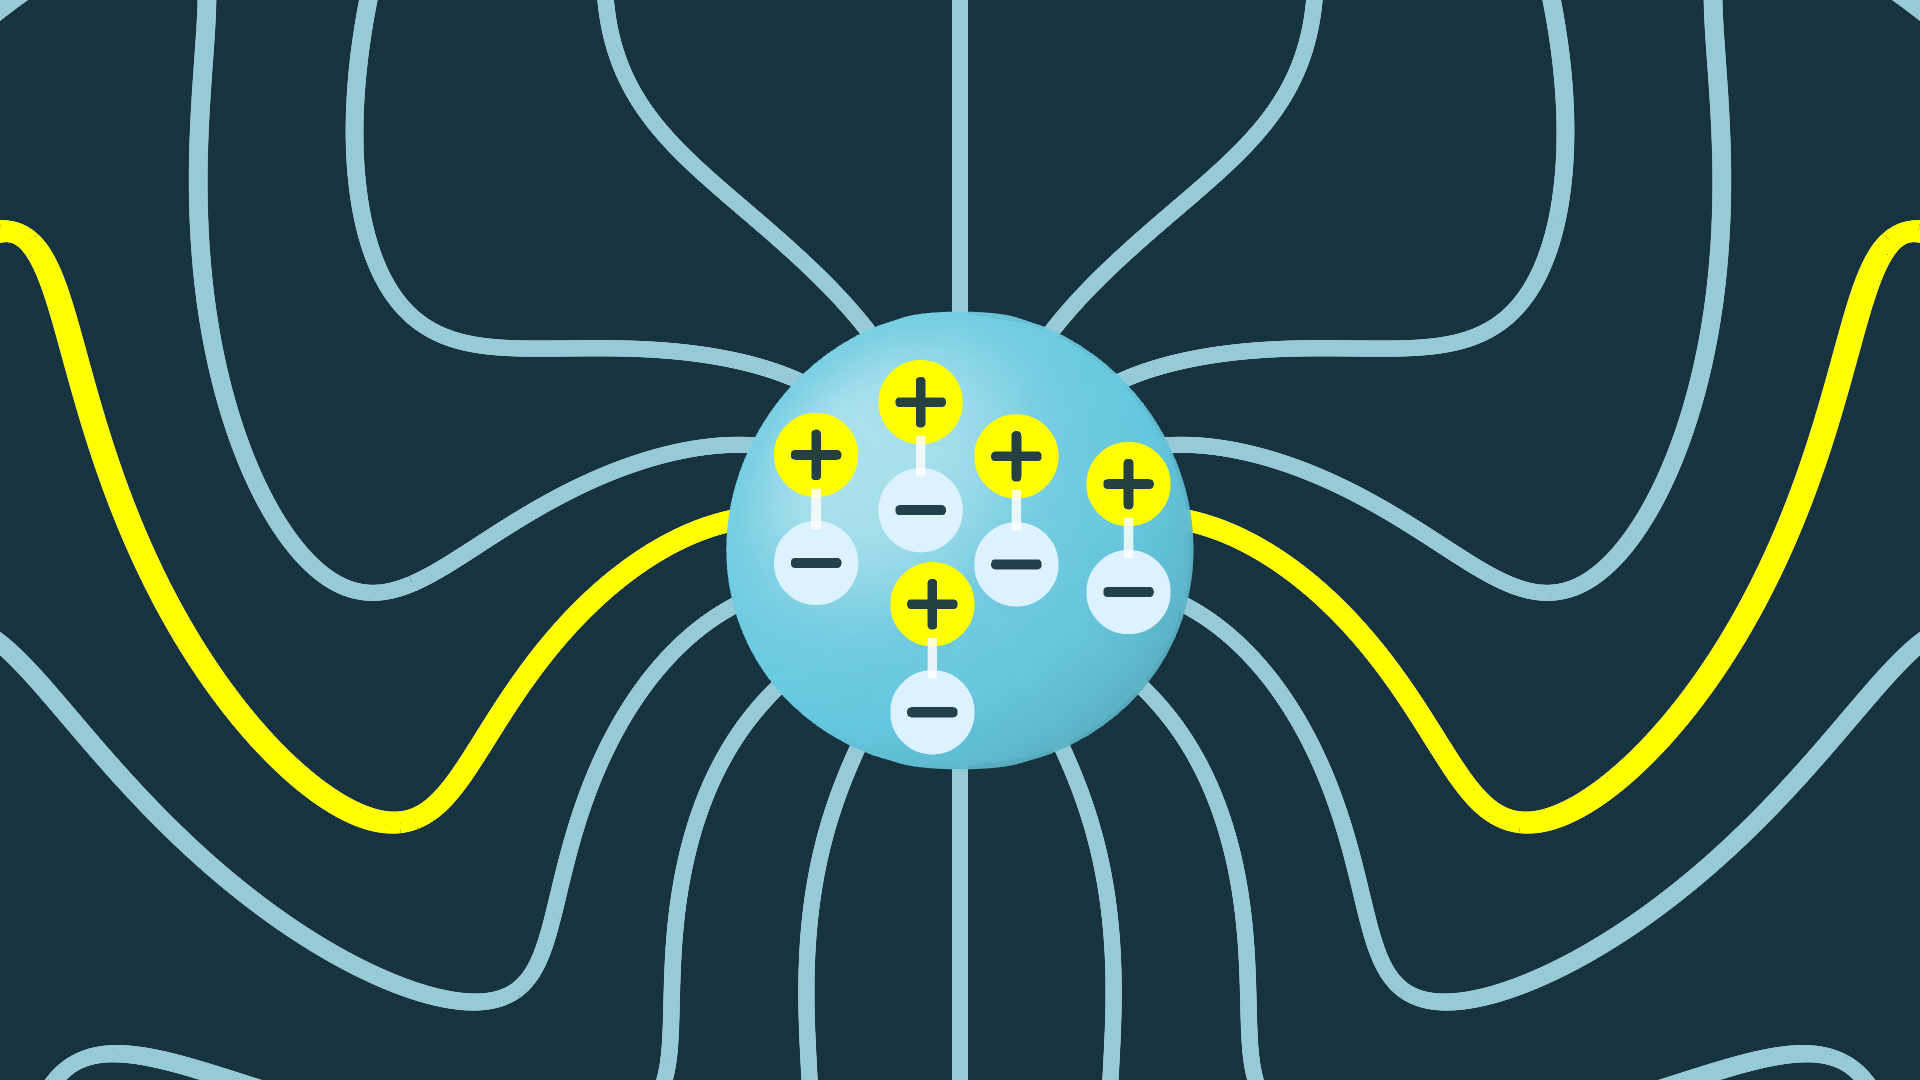
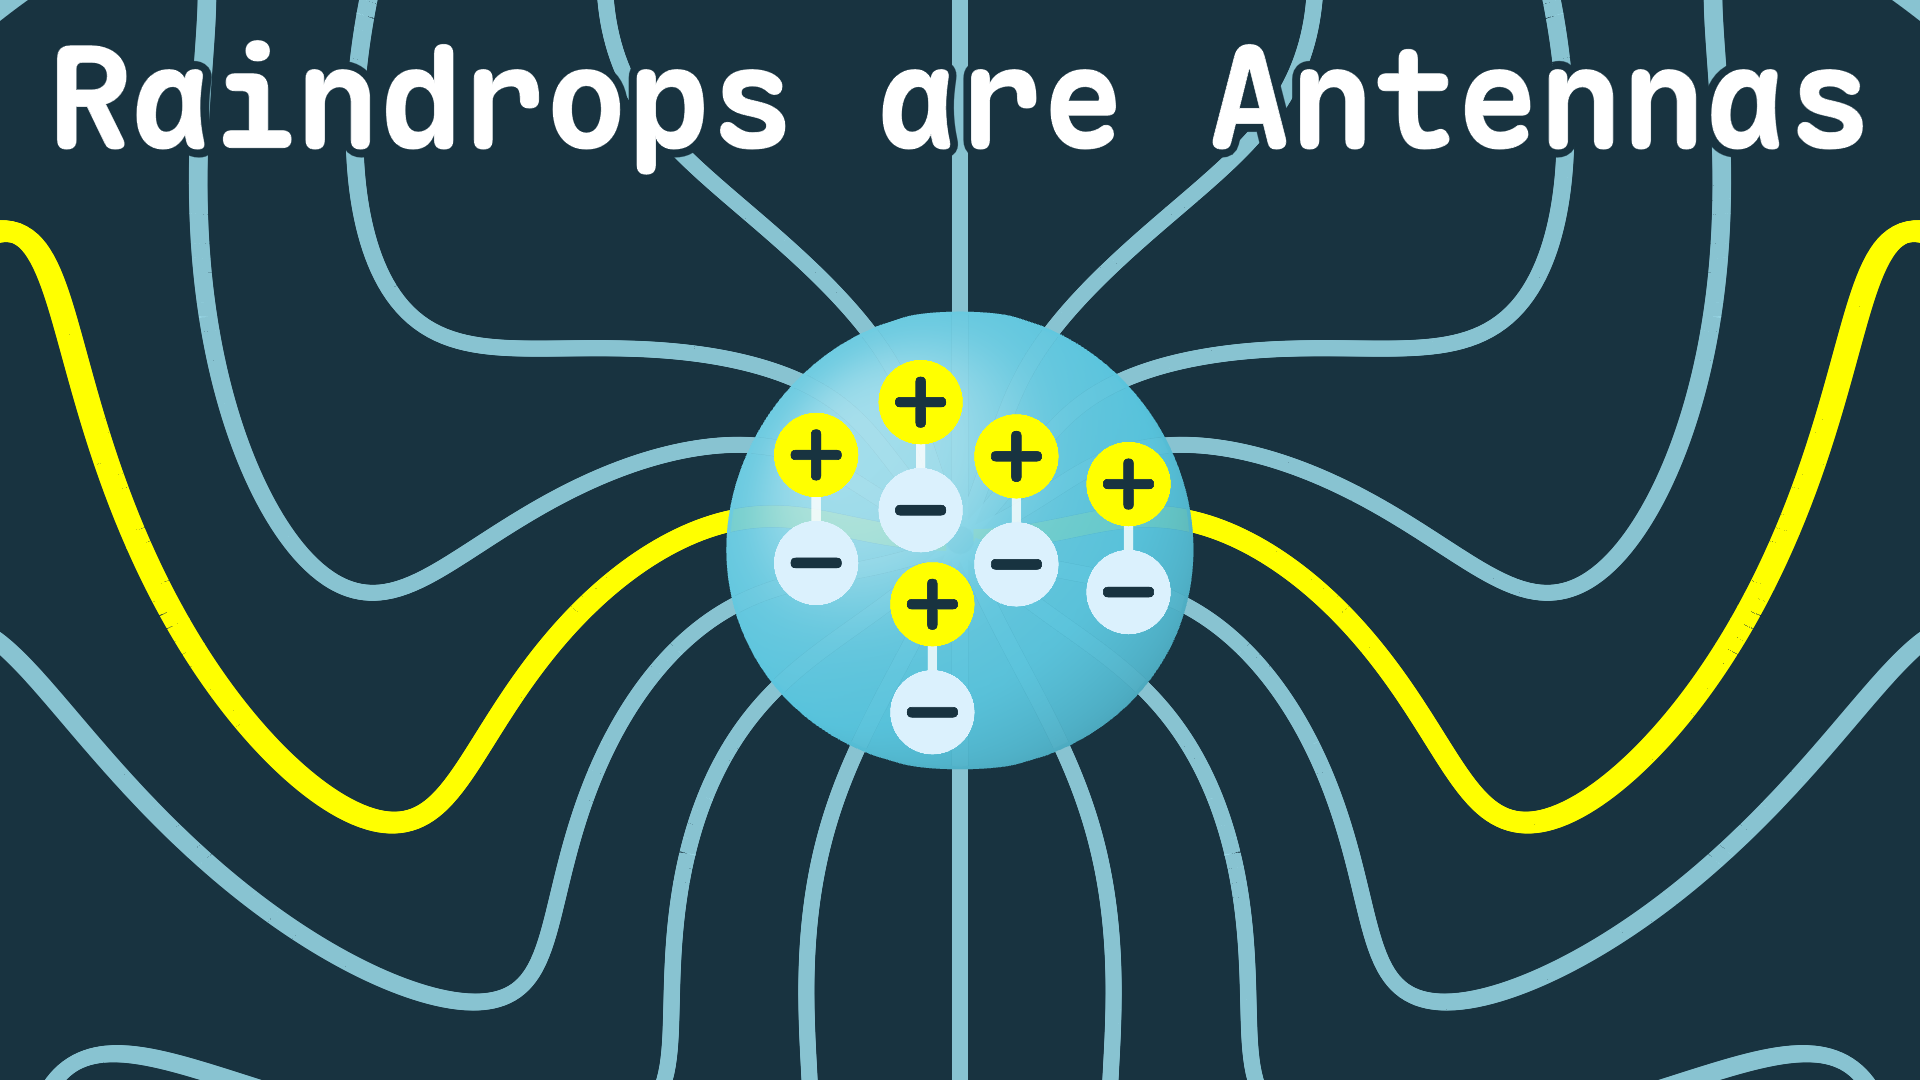
thickness

Changed region(s): [[0.0312, 0.0306, 0.4062, 0.1528], [0.625, 0.0306, 0.9688, 0.1528], [0.4375, 0.0611, 0.5938, 0.1528]]

diff --git a/18_reflectivity_physics/zphys.py b/18_reflectivity_physics/zphys.py
@@ -7426,7 +7426,14 @@ class Thumbnail2(ThreeDScene):
             )
             charge_pairs.add(pair)
 
-        self.add(field_lines, raindrop, connectors, charge_pairs, perp_stroke=False)
+        # Title across the top; the dark outline keeps it legible over the field lines
+        title = Text("Raindrops are Antennas", font=FONT, weight=BOLD, fill_color=WHITE)
+        title.set_width(fw(self, 0.94)).to_edge(UP, buff=0.3)
+        title.set_stroke(BACKGROUND_COLOR, width=12, behind=True)
+
+        self.add(
+            field_lines, raindrop, connectors, charge_pairs, title, perp_stroke=False
+        )
 
         self.wait(0.5)
 
